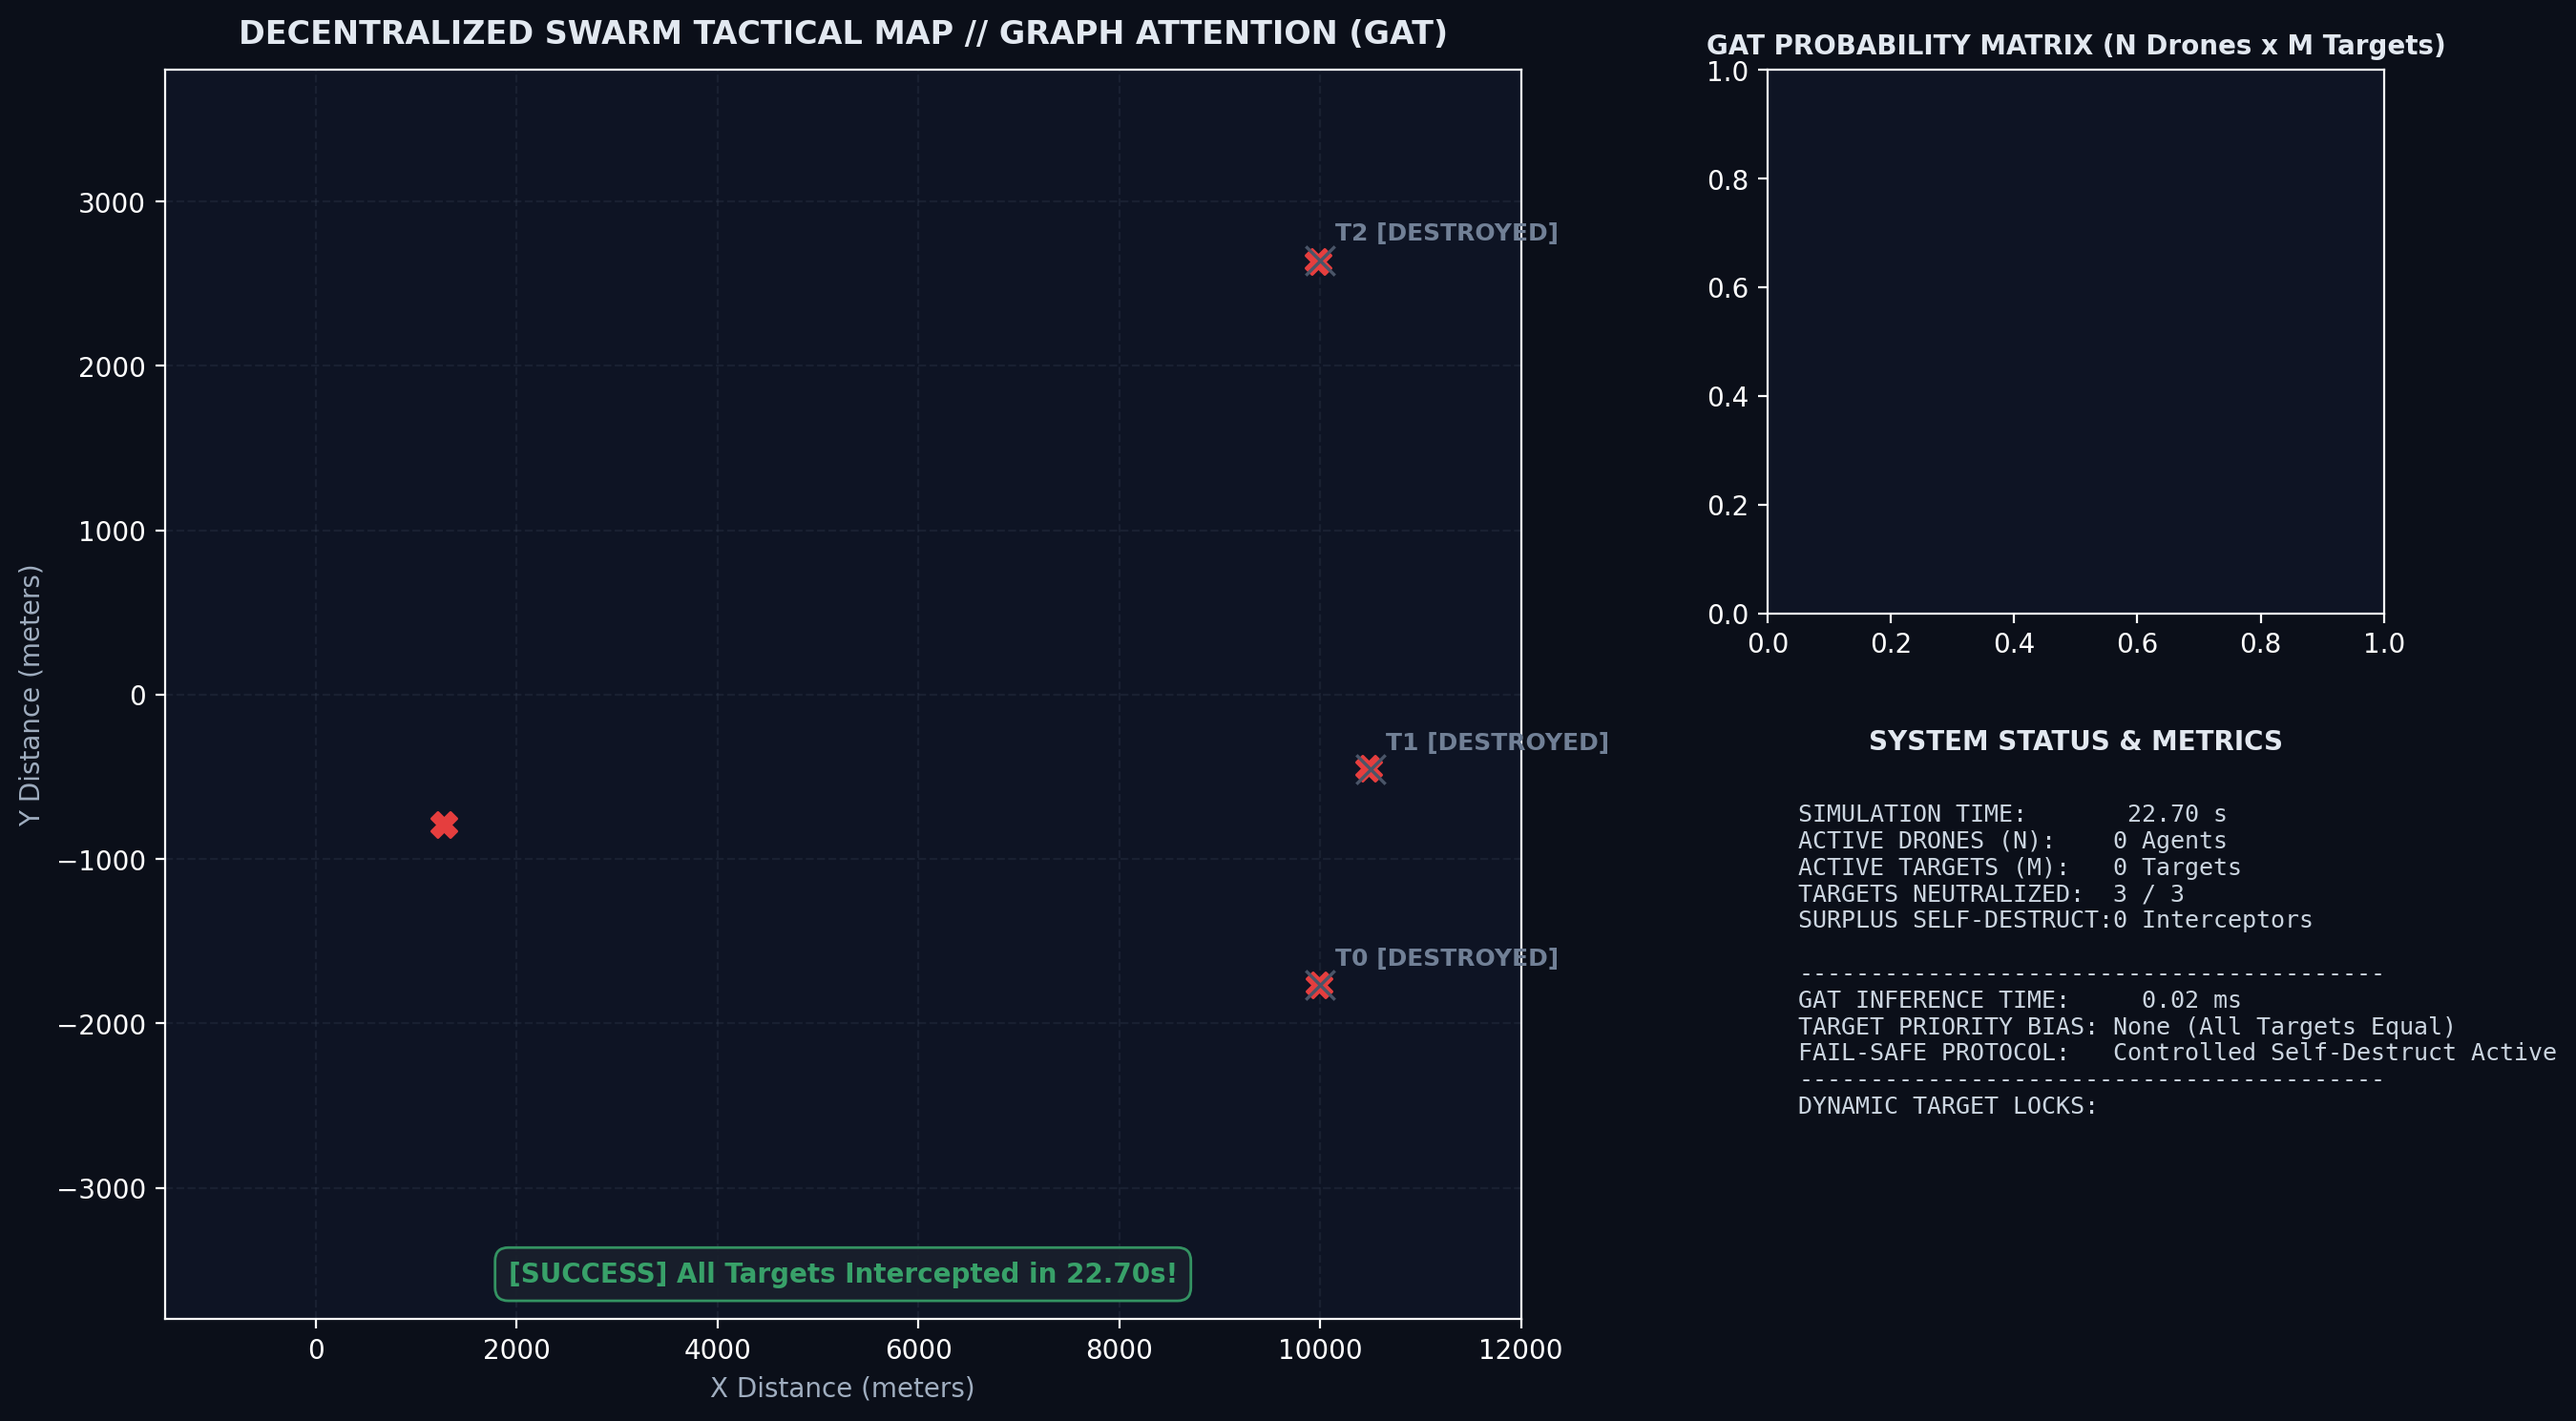
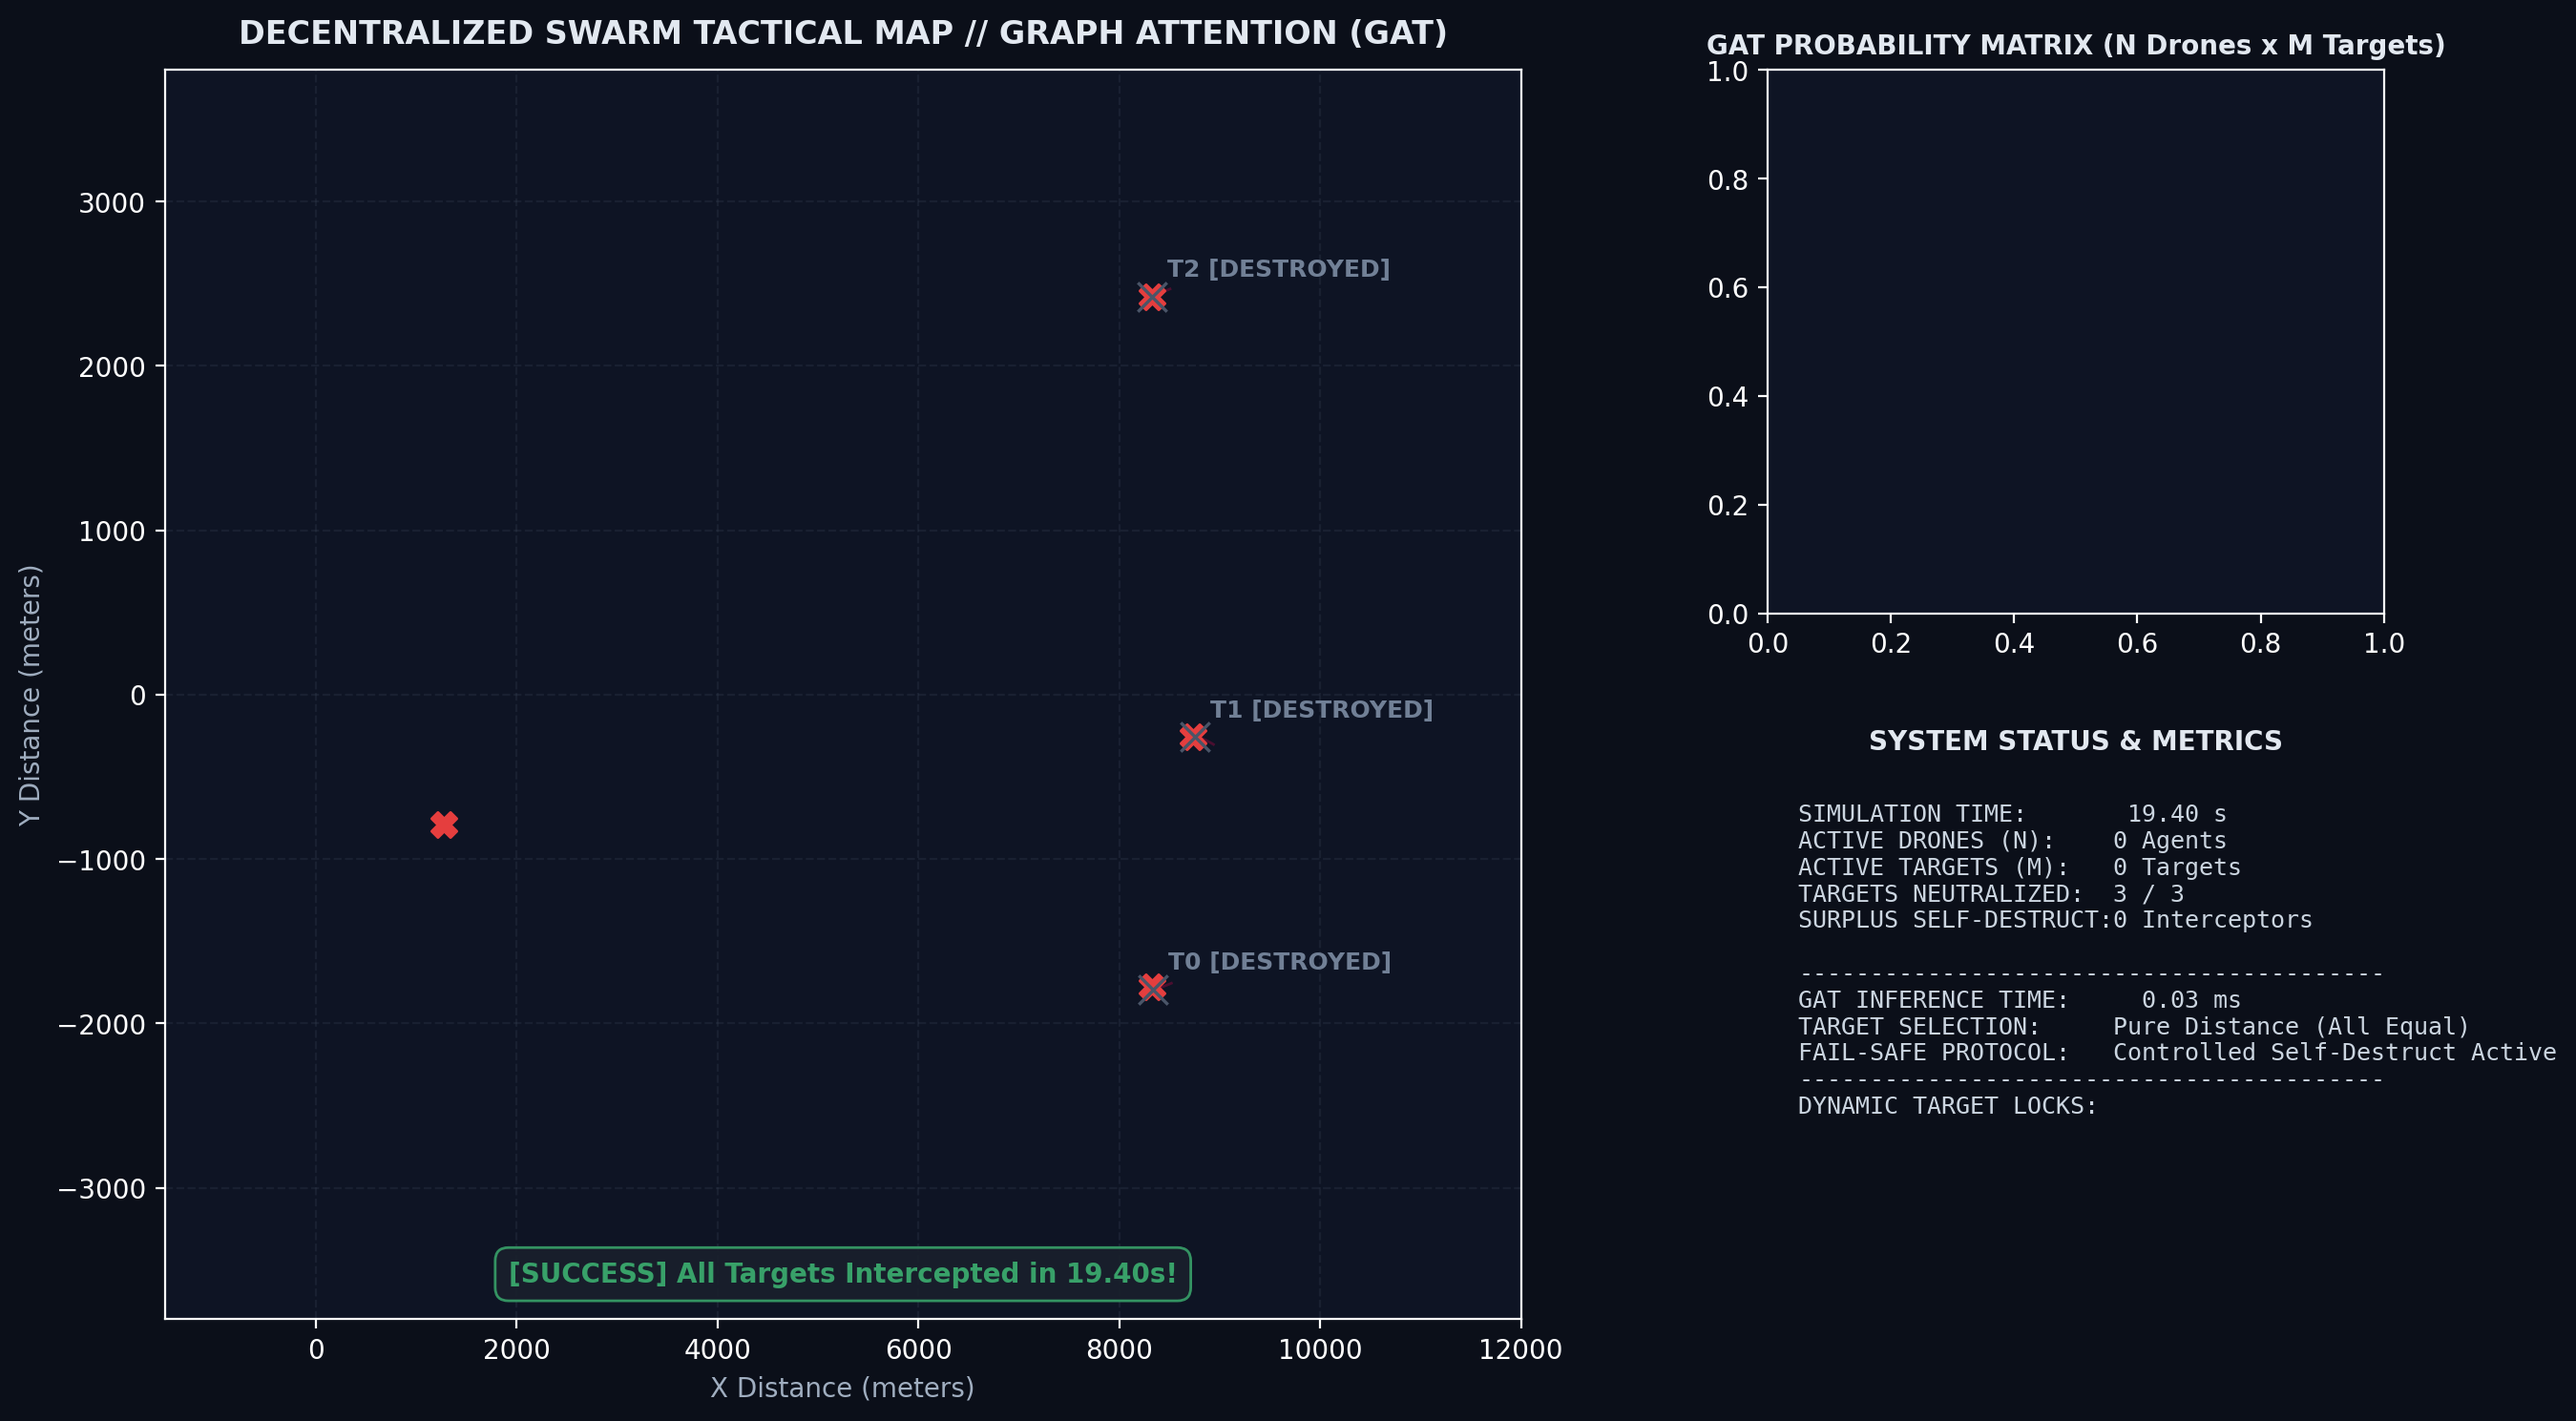
feat(base): enable active evasive target kinematics and clean marker rendering

diff --git a/main.py b/main.py
@@ -58,7 +58,10 @@ class TargetState:
     target_id: int
     x: float
     y: float
-    vy: float = 0.0  # Lateral drift velocity in m/s
+    vx: float = -90.0            # Inbound cruise velocity in m/s (approaching defense perimeter)
+    vy: float = 0.0              # Base lateral velocity in m/s
+    maneuver_freq: float = 0.35  # Evasive sinusoidal weave frequency in rad/s
+    maneuver_amp: float = 50.0   # Evasive maneuver amplitude in m/s
     alive: bool = True
     trajectory: List[Tuple[float, float]] = field(default_factory=list)
 
@@ -83,12 +86,19 @@ def step_motion(
     self_destructed_drones = []
     target_dict = {t.target_id: t for t in targets}
 
-    # 1. Update target positions
+    # 1. Update target positions (Active Inbound Evasive Flight)
     for target in targets:
         if not target.alive:
             continue
         target.trajectory.append((target.x, target.y))
-        target.y += target.vy * dt
+        
+        # Inbound motion + active sinusoidal evasive weaving
+        step_idx = len(target.trajectory)
+        t_sim = step_idx * dt
+        lateral_evasion = target.vy + target.maneuver_amp * math.sin(target.maneuver_freq * t_sim + target.target_id * 1.5)
+        
+        target.x += target.vx * dt
+        target.y += lateral_evasion * dt
 
     active_target_count = sum(1 for t in targets if t.alive)
 
@@ -303,8 +313,19 @@ def initialize_scenario(num_drones: int = 4, num_targets: int = 3) -> Tuple[List
     for j in range(num_targets):
         y_pos = (j - (num_targets - 1) / 2.0) * y_spread
         x_pos = 10000.0 + (j % 2) * 500.0
-        vy = 20.0 if (j % 2 == 0) else -20.0
-        targets.append(TargetState(target_id=j, x=x_pos, y=y_pos, vy=vy))
+        # Realistic dynamic inbound cruise at 90 m/s with staggered sinusoidal weaving
+        vy_base = 20.0 if (j % 2 == 0) else -20.0
+        freq = 0.30 + 0.08 * j
+        amp = 45.0 + 10.0 * (j % 2)
+        targets.append(TargetState(
+            target_id=j,
+            x=x_pos,
+            y=y_pos,
+            vx=-90.0,
+            vy=vy_base,
+            maneuver_freq=freq,
+            maneuver_amp=amp,
+        ))
 
     return drones, targets
 
@@ -414,11 +435,12 @@ def run_visualization(runner: SwarmSimulationRunner, save_plot: bool = False, no
 
         # Draw Targets (Clean T0, T1, T2 labels)
         for t in runner.targets:
-            c = '#FF0055' if t.alive else '#4A5568'
-            marker = 'D' if t.alive else 'x'
-            ax_map.scatter(t.x, t.y, color=c, marker=marker, s=120, edgecolors='#FFFFFF', linewidths=1.2, zorder=5)
-            status_text = f"Target T{t.target_id}" if t.alive else f"T{t.target_id} [DESTROYED]"
-            ax_map.text(t.x + 150, t.y + 120, status_text, color='#FF5577' if t.alive else '#718096', fontsize=9, fontweight='bold')
+            if t.alive:
+                ax_map.scatter(t.x, t.y, color='#FF0055', marker='D', s=120, edgecolors='#FFFFFF', linewidths=1.2, zorder=5)
+                ax_map.text(t.x + 150, t.y + 120, f"Target T{t.target_id}", color='#FF5577', fontsize=9, fontweight='bold')
+            else:
+                ax_map.scatter(t.x, t.y, color='#4A5568', marker='x', s=120, linewidths=2.0, zorder=5)
+                ax_map.text(t.x + 150, t.y + 120, f"T{t.target_id} [DESTROYED]", color='#718096', fontsize=9, fontweight='bold')
             if len(t.trajectory) > 1:
                 xs, ys = zip(*t.trajectory[-40:])
                 ax_map.plot(xs, ys, color='#FF0055', alpha=0.25, linewidth=1.0)

diff --git a/run_simulation.py b/run_simulation.py
@@ -58,7 +58,10 @@ class TargetState:
     target_id: int
     x: float
     y: float
-    vy: float = 0.0  # Lateral drift velocity in m/s
+    vx: float = -90.0            # Inbound cruise velocity in m/s (approaching defense perimeter)
+    vy: float = 0.0              # Base lateral velocity in m/s
+    maneuver_freq: float = 0.35  # Evasive sinusoidal weave frequency in rad/s
+    maneuver_amp: float = 50.0   # Evasive maneuver amplitude in m/s
     alive: bool = True
     trajectory: List[Tuple[float, float]] = field(default_factory=list)
 
@@ -83,12 +86,19 @@ def step_motion(
     self_destructed_drones = []
     target_dict = {t.target_id: t for t in targets}
 
-    # 1. Update target positions
+    # 1. Update target positions (Active Inbound Evasive Flight)
     for target in targets:
         if not target.alive:
             continue
         target.trajectory.append((target.x, target.y))
-        target.y += target.vy * dt
+        
+        # Inbound motion + active sinusoidal evasive weaving
+        step_idx = len(target.trajectory)
+        t_sim = step_idx * dt
+        lateral_evasion = target.vy + target.maneuver_amp * math.sin(target.maneuver_freq * t_sim + target.target_id * 1.5)
+        
+        target.x += target.vx * dt
+        target.y += lateral_evasion * dt
 
     active_target_count = sum(1 for t in targets if t.alive)
 
@@ -303,8 +313,19 @@ def initialize_scenario(num_drones: int = 4, num_targets: int = 3) -> Tuple[List
     for j in range(num_targets):
         y_pos = (j - (num_targets - 1) / 2.0) * y_spread
         x_pos = 10000.0 + (j % 2) * 500.0
-        vy = 20.0 if (j % 2 == 0) else -20.0
-        targets.append(TargetState(target_id=j, x=x_pos, y=y_pos, vy=vy))
+        # Realistic dynamic inbound cruise at 90 m/s with staggered sinusoidal weaving
+        vy_base = 20.0 if (j % 2 == 0) else -20.0
+        freq = 0.30 + 0.08 * j
+        amp = 45.0 + 10.0 * (j % 2)
+        targets.append(TargetState(
+            target_id=j,
+            x=x_pos,
+            y=y_pos,
+            vx=-90.0,
+            vy=vy_base,
+            maneuver_freq=freq,
+            maneuver_amp=amp,
+        ))
 
     return drones, targets
 
@@ -414,11 +435,12 @@ def run_visualization(runner: SwarmSimulationRunner, save_plot: bool = False, no
 
         # Draw Targets (Clean T0, T1, T2 labels)
         for t in runner.targets:
-            c = '#FF0055' if t.alive else '#4A5568'
-            marker = 'D' if t.alive else 'x'
-            ax_map.scatter(t.x, t.y, color=c, marker=marker, s=120, edgecolors='#FFFFFF', linewidths=1.2, zorder=5)
-            status_text = f"Target T{t.target_id}" if t.alive else f"T{t.target_id} [DESTROYED]"
-            ax_map.text(t.x + 150, t.y + 120, status_text, color='#FF5577' if t.alive else '#718096', fontsize=9, fontweight='bold')
+            if t.alive:
+                ax_map.scatter(t.x, t.y, color='#FF0055', marker='D', s=120, edgecolors='#FFFFFF', linewidths=1.2, zorder=5)
+                ax_map.text(t.x + 150, t.y + 120, f"Target T{t.target_id}", color='#FF5577', fontsize=9, fontweight='bold')
+            else:
+                ax_map.scatter(t.x, t.y, color='#4A5568', marker='x', s=120, linewidths=2.0, zorder=5)
+                ax_map.text(t.x + 150, t.y + 120, f"T{t.target_id} [DESTROYED]", color='#718096', fontsize=9, fontweight='bold')
             if len(t.trajectory) > 1:
                 xs, ys = zip(*t.trajectory[-40:])
                 ax_map.plot(xs, ys, color='#FF0055', alpha=0.25, linewidth=1.0)
